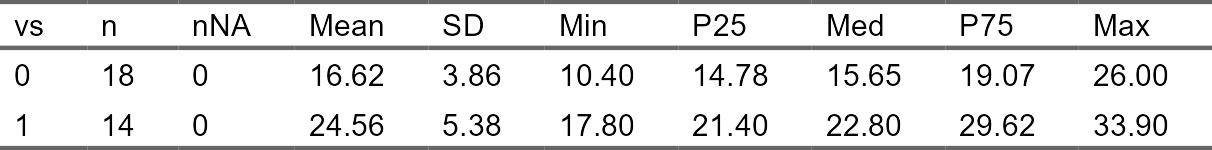
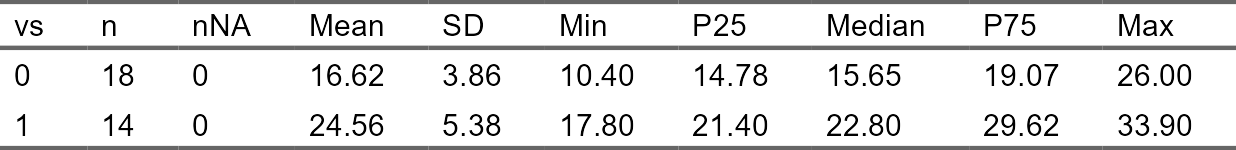
Update README

diff --git a/README.md b/README.md
@@ -19,7 +19,7 @@ common tasks in exploratory data analysis.
 ## Citation
 
 Sou T (2025). *edar: Convenient Functions for Exploratory Data
-Analysis*. R package version 0.0.6, <https://github.com/soutomas/edar>.
+Analysis*. R package version 0.0.7, <https://github.com/soutomas/edar>.
 
 ## Installation
 
@@ -55,7 +55,7 @@ dat |> summ_by()
 #> Dropped: cyl vs am gear carb
 #> Adding missing grouping variables: `name`
 #> # A tibble: 6 × 10
-#>   name      n   nNA   Mean      SD   Min    P25    Med    P75    Max
+#>   name      n   nNA   Mean      SD   Min    P25 Median    P75    Max
 #>   <chr> <int> <int>  <dbl>   <dbl> <dbl>  <dbl>  <dbl>  <dbl>  <dbl>
 #> 1 disp     32     0 231.   124.    71.1  121.   196.   326    472   
 #> 2 drat     32     0   3.60   0.535  2.76   3.08   3.70   3.92   4.93
@@ -68,10 +68,10 @@ dat |> summ_by()
 dat |> summ_by(mpg,vs)
 #> Adding missing grouping variables: `vs`
 #> # A tibble: 2 × 10
-#>   vs        n   nNA  Mean    SD   Min   P25   Med   P75   Max
-#>   <fct> <int> <int> <dbl> <dbl> <dbl> <dbl> <dbl> <dbl> <dbl>
-#> 1 0        18     0  16.6  3.86  10.4  14.8  15.6  19.1  26  
-#> 2 1        14     0  24.6  5.38  17.8  21.4  22.8  29.6  33.9
+#>   vs        n   nNA  Mean    SD   Min   P25 Median   P75   Max
+#>   <fct> <int> <int> <dbl> <dbl> <dbl> <dbl>  <dbl> <dbl> <dbl>
+#> 1 0        18     0  16.6  3.86  10.4  14.8   15.6  19.1  26  
+#> 2 1        14     0  24.6  5.38  17.8  21.4   22.8  29.6  33.9
 
 # Summaries of all categorical variables. 
 dat |> summ_cat()
@@ -124,7 +124,7 @@ dat |> summ_by(mpg,vs) |> ft()
 #> Adding missing grouping variables: `vs`
 ```
 
-<img src="man/figures/README-unnamed-chunk-3-1.png" width="70%" />
+<img src="man/figures/README-unnamed-chunk-3-1.png" alt="" width="70%" />
 
 ### Visualisation
 
@@ -136,7 +136,7 @@ dat |> ggxy(hp,disp)
 #> `geom_smooth()` using formula = 'y ~ x'
 ```
 
-<img src="man/figures/README-unnamed-chunk-4-1.png" width="70%" />
+<img src="man/figures/README-unnamed-chunk-4-1.png" alt="" width="70%" />
 
 ``` r
 
@@ -146,7 +146,7 @@ dat |> gghist()
 #> Dropped: cyl vs am gear carb
 ```
 
-<img src="man/figures/README-unnamed-chunk-4-2.png" width="70%" />
+<img src="man/figures/README-unnamed-chunk-4-2.png" alt="" width="70%" />
 
 ``` r
 
@@ -156,7 +156,7 @@ dat |> ggbox(mpg)
 #> Dropped: disp hp drat wt qsec
 ```
 
-<img src="man/figures/README-unnamed-chunk-4-3.png" width="70%" />
+<img src="man/figures/README-unnamed-chunk-4-3.png" alt="" width="70%" />
 
 ``` r
 
@@ -170,7 +170,7 @@ dat |> ggvio(mpg)
 #> ℹ Set `drop = FALSE` to consider such groups for position adjustment purposes.
 ```
 
-<img src="man/figures/README-unnamed-chunk-4-4.png" width="70%" />
+<img src="man/figures/README-unnamed-chunk-4-4.png" alt="" width="70%" />
 
 ``` r
 
@@ -178,7 +178,7 @@ dat |> ggvio(mpg)
 Theoph |> ggtpp(Time, conc, id=Subject, xlab="Time [h]", ylab="Concentration [mg/L]")
 ```
 
-<img src="man/figures/README-unnamed-chunk-4-5.png" width="70%" />
+<img src="man/figures/README-unnamed-chunk-4-5.png" alt="" width="70%" />
 
 ### Labels
 